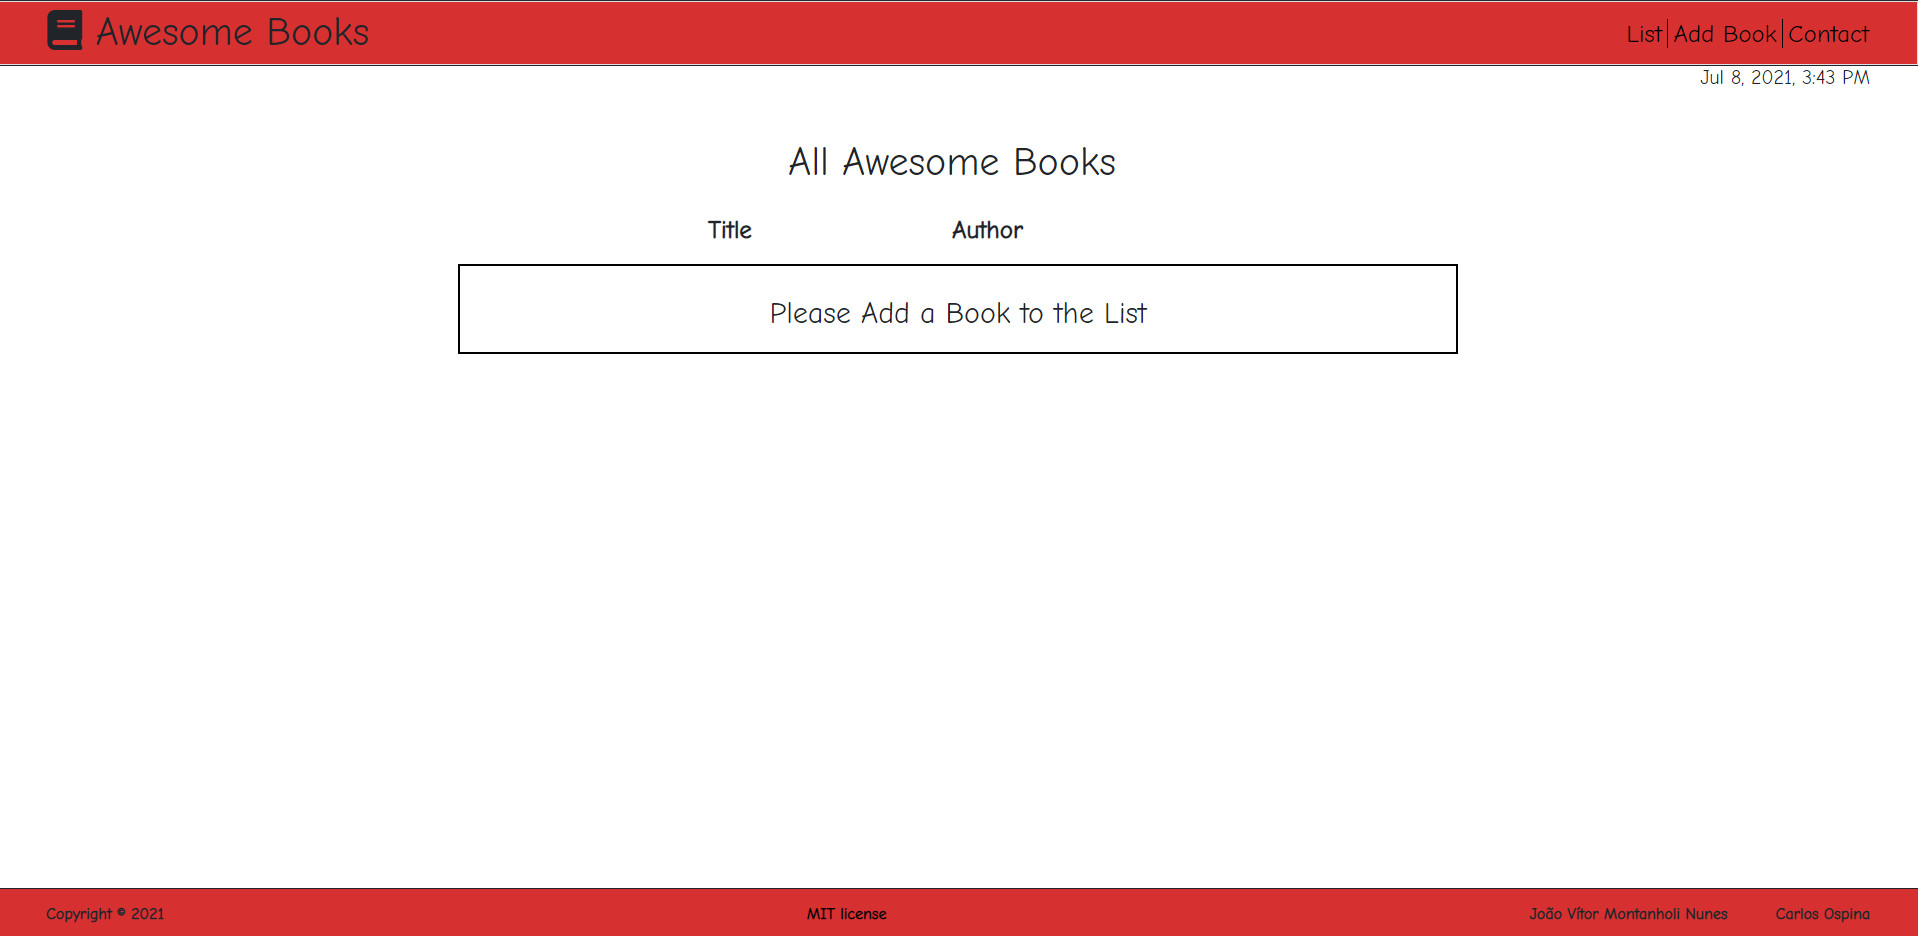
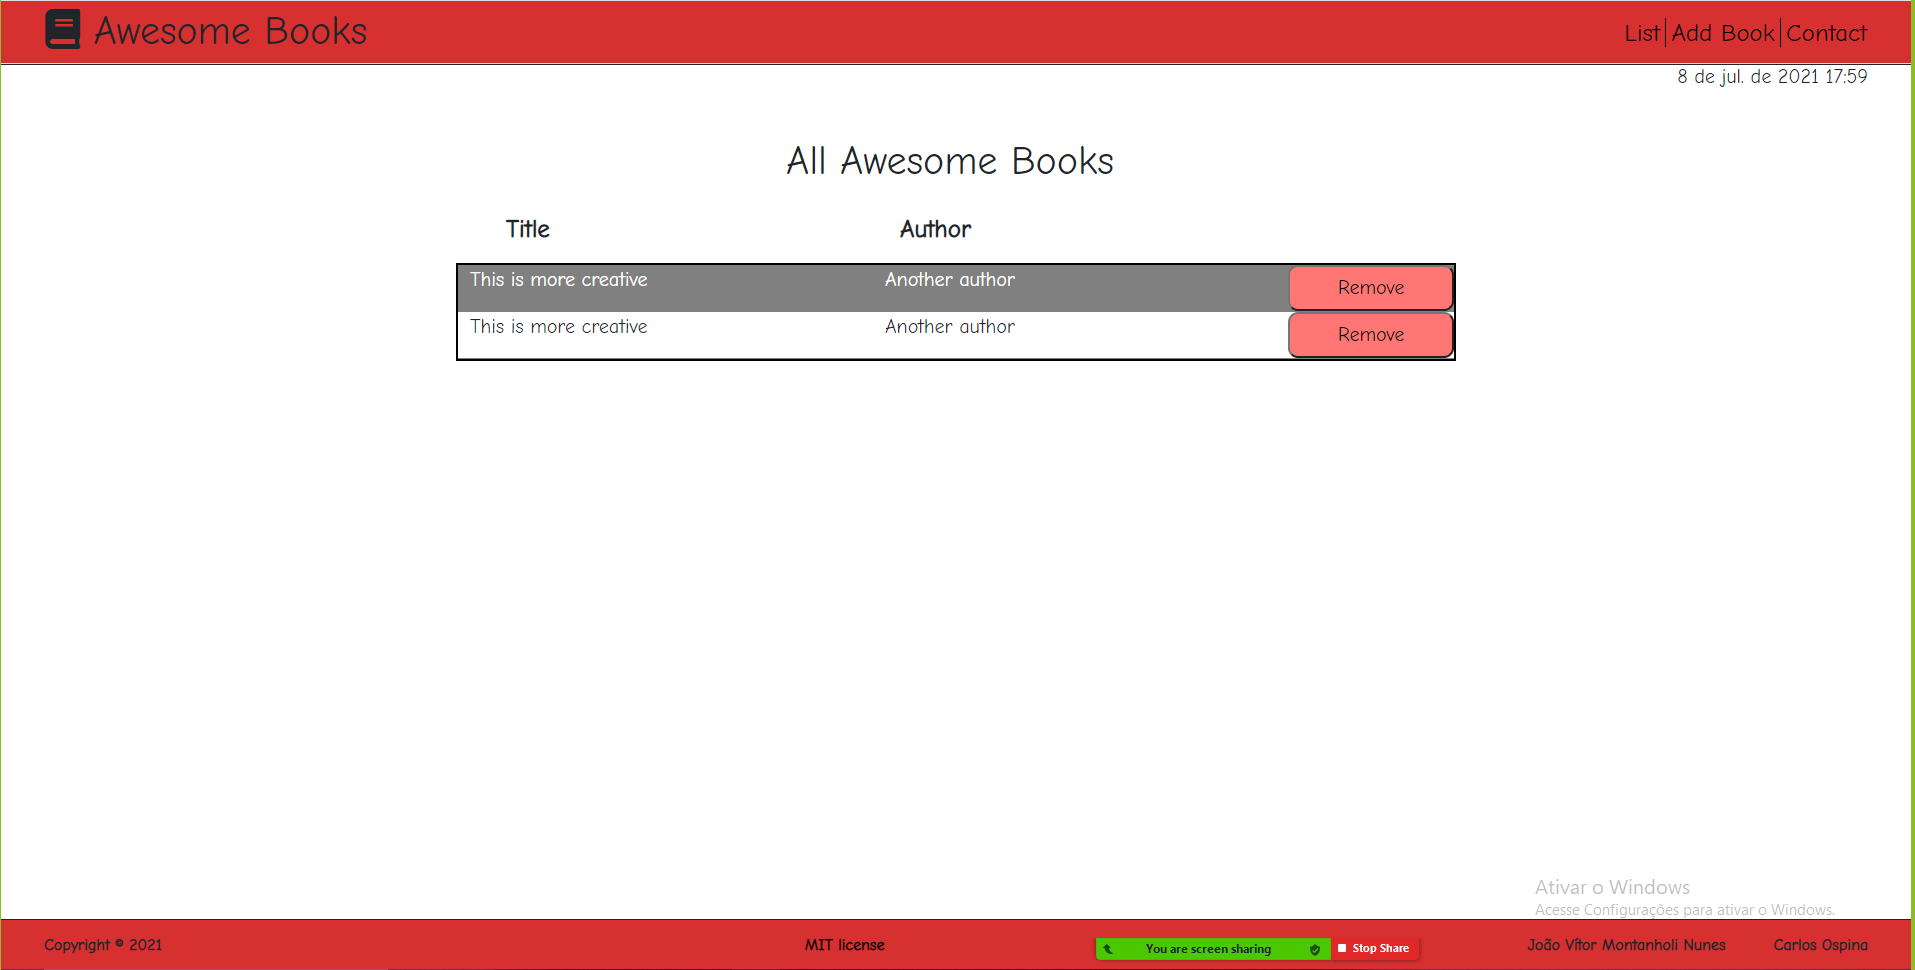
Fix title margin and screenshot for list screen

Changed region(s): [[0.0, 0.0, 1.0, 1.0], [0.2157, 0.2169, 0.7702, 0.4028], [0.4005, 0.1549, 0.5854, 0.1859]]

diff --git a/styles/stylesheet.css b/styles/stylesheet.css
@@ -58,12 +58,12 @@ html {
 }
 
 .margin-left {
-  margin-left: 20%;
+  margin-left: 35%;
   font-size: 25px;
 }
 
 .margin-left2 {
-  margin-left: 25%;
+  margin-left: 5%;
   font-size: 25px;
 }
 
